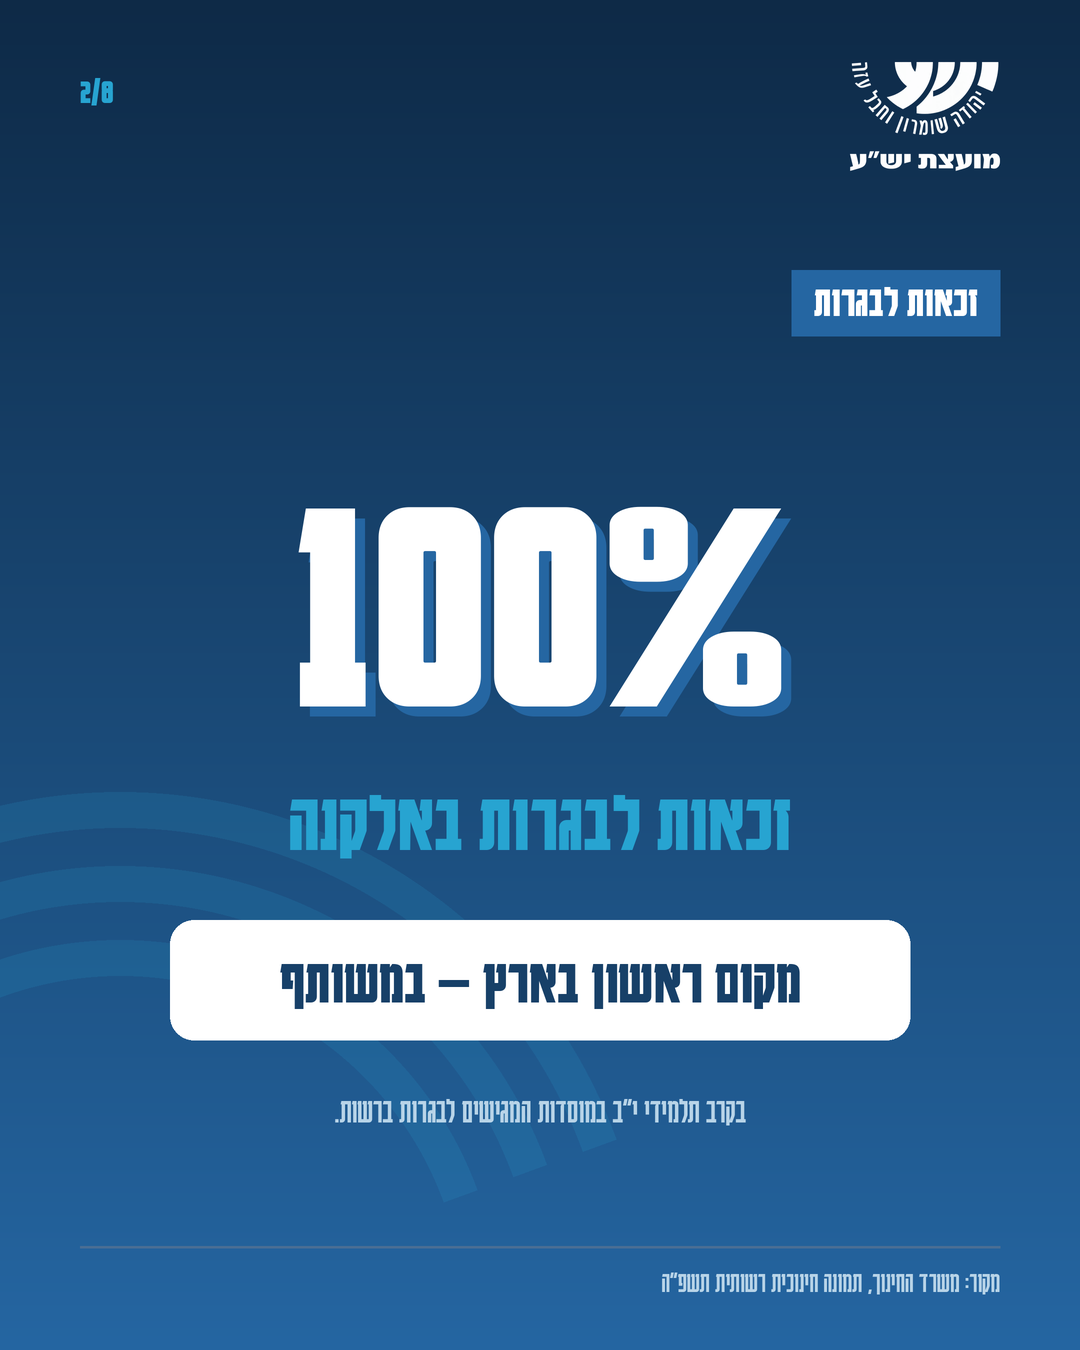
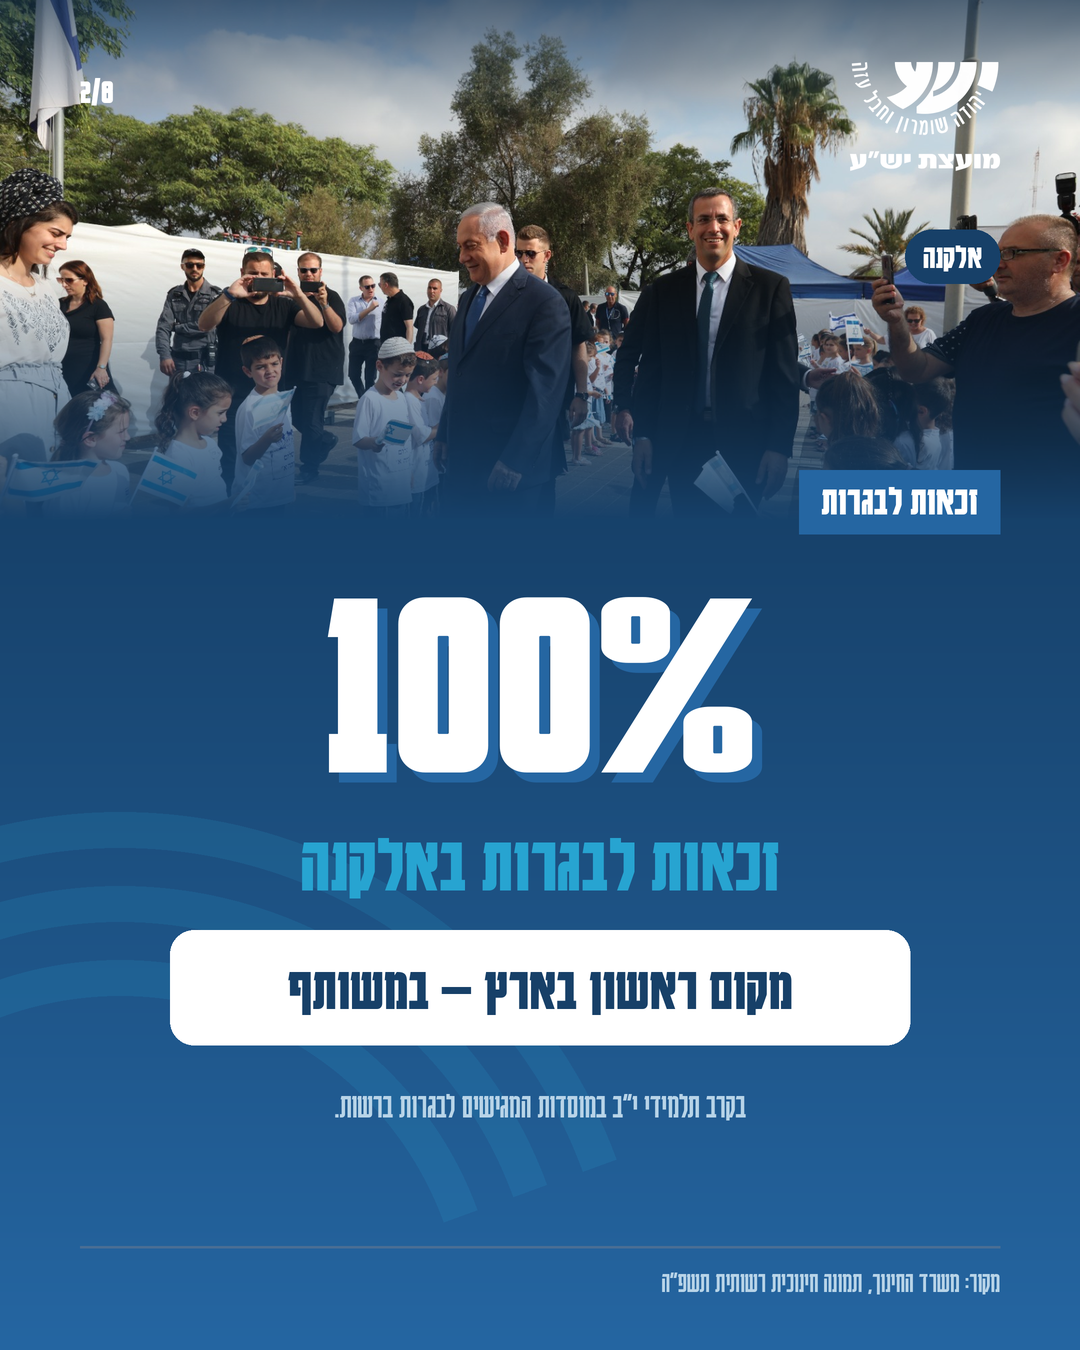
Add Elkana and Efrat photos to final Yesha carousel
Claude-Session: https://claude.ai/code/session_01RS3QK6pAd3YhyAuXZSJjH1

diff --git a/content-kit/yesha/2026-10-education-carousel-v2/make.py b/content-kit/yesha/2026-10-education-carousel-v2/make.py
@@ -86,6 +86,7 @@ UP = '/root/.claude/uploads/1a5819ee-0cc0-5045-b086-4a8a80216453/'
 PHOTO_COVER = UP + '9dadb569-image.jpg'
 PHOTO_EFRAT = UP + '6168c27e-image.jpg'
 PHOTO_SHOMRON = UP + '76ebff00-image.jpg'
+PHOTO_ELKANA = UP + '177480c4-image.jpg'
 
 
 def bg_at(y):
@@ -192,14 +193,16 @@ def s1():
 
 # 2 — matriculation eligibility
 def s2():
-    img = canvas(True); arcs(img, 120, 1320, n=3, r0=380)
-    d = chrome(img, 2, True, SRC_EDU)
-    tag(d, 270, 'זכאות לבגרות', 44)
-    text(d, (W / 2, 590), '100%', 330, WHITE, anchor='mm', rtl=False, shadow=(10, 10, BLUE))
-    text(d, (W / 2, 820), 'זכאות לבגרות באלקנה', 84, LB, anchor='mm')
-    d.rounded_rectangle(P(170, 920, W - 170, 1040), radius=24 * S, fill=WHITE)
-    text(d, (W / 2, 980), 'מקום ראשון בארץ — במשותף', 64, NAVY, anchor='mm')
-    text(d, (W / 2, 1110), 'בקרב תלמידי י״ב במוסדות המגישים לבגרות ברשות.', 36, SOFT, anchor='mm', bold=False)
+    img = canvas(True)
+    photo(img, PHOTO_ELKANA, 520, 0.40, None, fade_from=0.48, caption='אלקנה', top_dark=170)
+    arcs(img, 120, 1340, n=3, r0=380)
+    d = chrome(img, 2, True, SRC_EDU, on_photo=True)
+    tag(d, 470, 'זכאות לבגרות', 42)
+    text(d, (W / 2, 670), '100%', 290, WHITE, anchor='mm', rtl=False, shadow=(10, 10, BLUE))
+    text(d, (W / 2, 862), 'זכאות לבגרות באלקנה', 80, LB, anchor='mm')
+    d.rounded_rectangle(P(170, 930, W - 170, 1045), radius=24 * S, fill=WHITE)
+    text(d, (W / 2, 987), 'מקום ראשון בארץ — במשותף', 62, NAVY, anchor='mm')
+    text(d, (W / 2, 1105), 'בקרב תלמידי י״ב במוסדות המגישים לבגרות ברשות.', 36, SOFT, anchor='mm', bold=False)
     save(img, 2)
 
 
@@ -216,19 +219,21 @@ def s3():
 
 # 4 — 5 units math & English
 def s4():
-    img = canvas(False); d = chrome(img, 4, False, SRC_EDU)
-    tag(d, 250, '5 יחידות לימוד', 42)
-    text(d, (W - M, 335), 'מובילים ב־5 יחידות', 104, NAVY)
+    img = canvas(False)
+    photo(img, PHOTO_EFRAT, 440, 0.0, ICE, fade_from=0.74, caption='אפרת', top_dark=170)
+    d = chrome(img, 4, False, SRC_EDU, on_photo=True)
+    tag(d, 428, '5 יחידות לימוד', 40)
+    text(d, (W - M, 488), 'מובילים ב־5 יחידות', 92, NAVY)
 
     def section(y, title):
-        text(d, (W - M, y), title, 60, BLUE)
-        d.rectangle(P(M, y + 40, W - M - tw(d, title, 60) - 24, y + 43), fill=(0xB5, 0xCF, 0xE3))
+        text(d, (W - M, y), title, 56, BLUE)
+        d.rectangle(P(M, y + 38, W - M - tw(d, title, 56) - 24, y + 41), fill=(0xB5, 0xCF, 0xE3))
 
-    section(480, 'מתמטיקה')
-    bar_row(d, 570, 'אלקנה', 35.8, 6, strong=True)
-    bar_row(d, 750, 'אפרת', 32.5, 12)
-    section(950, 'אנגלית')
-    bar_row(d, 1040, 'אלקנה', 82.1, 8, strong=True)
+    section(605, 'מתמטיקה')
+    bar_row(d, 675, 'אלקנה', 35.8, 6, strong=True)
+    bar_row(d, 830, 'אפרת', 32.5, 12)
+    section(990, 'אנגלית')
+    bar_row(d, 1062, 'אלקנה', 82.1, 8, strong=True)
     save(img, 4)
 
 
